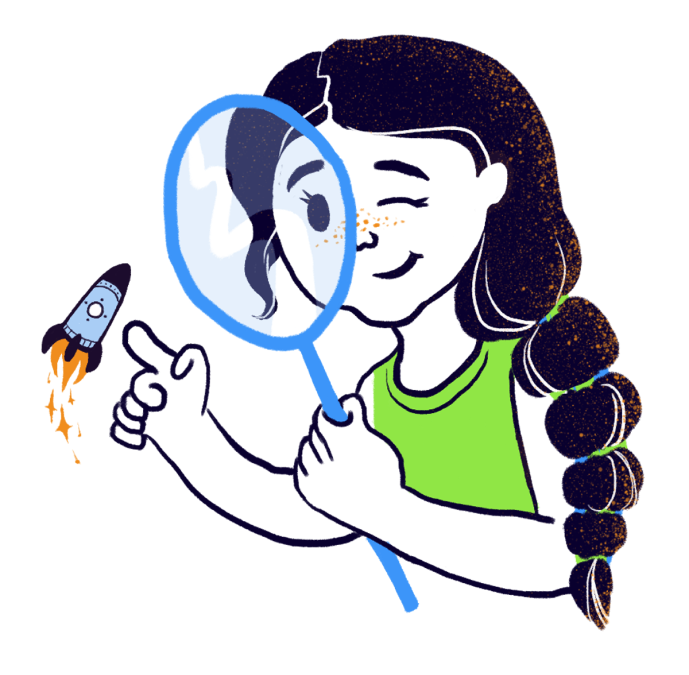
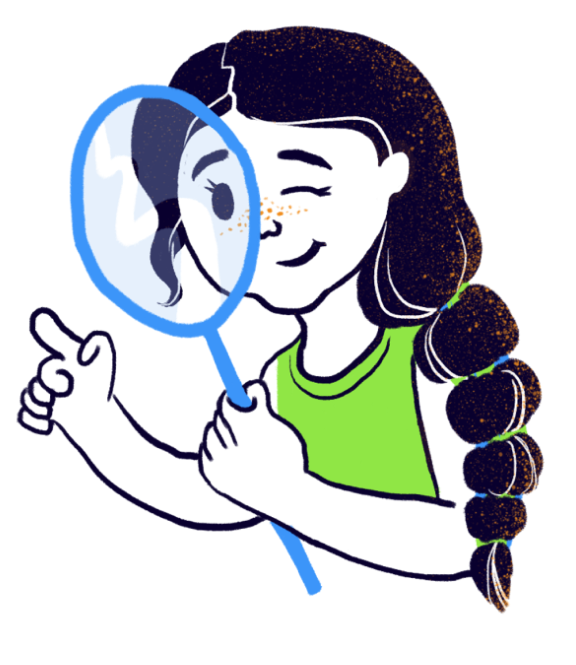
feat: add animation rocket

Changed region(s): [[0.0312, 0.0301, 0.9688, 0.9323], [0.1562, 0.6917, 0.1875, 0.7218]]

diff --git a/src/components/CareersForm/CareersForm.styled.ts b/src/components/CareersForm/CareersForm.styled.ts
@@ -1,5 +1,5 @@
 import themes from "./../../utils/themes";
-import styled from "styled-components";
+import styled, { keyframes, css } from "styled-components";
 
 export const FormTitle = styled.h1`
   font-size: ${themes.primary.font.size.quaternary};
@@ -21,7 +21,6 @@ export const FormImage = styled.div`
   width: 43.063rem;
   height: 42.188rem;
   background-repeat: space;
-  margin-left: 6.125rem;
 
   @media ${themes.primary.media.maxLaptop} {
     margin-left: 4.125rem;
@@ -31,18 +30,95 @@ export const FormImage = styled.div`
     width: 28.125rem;
     height: 29rem;
     background-repeat: round;
-    margin-left: 4.125rem;
   }
 
   @media ${themes.primary.media.maxTabletPortrait} {
-    margin-left: 1.125rem;
   }
 
   @media ${themes.primary.media.minTablet} {
-    margin-left: 0;
   }
   @media ${themes.primary.media.maxLowScreenMobile} {
     width: 22.625rem;
     height: 23.313rem;
+  }
+`;
+
+const rocket = keyframes`
+  ${css`
+    12% {
+      transform: translateX(1rem);
+    }
+    25% {
+      transform: translateY(-0.5rem);
+    }
+    37% {
+      transform: translateX(-1rem);
+    }
+    50% {
+      transform: translateY(-0.5rem);
+    }
+    62% {
+      transform: translateX(1rem);
+    }
+    75% {
+      transform: translateY(0.5rem);
+    }
+    87% {
+      transform: translateX(-1rem);
+    }
+    100% {
+      transform: translateY(0);
+    }
+  `}
+`;
+
+export const FormRocketImage = styled.div`
+  display: flex;
+  position: relative;
+  top: 19rem;
+  left: -10rem;
+  width: 5.5rem;
+  height: 11rem;
+  background-size: 5.5rem auto;
+  background-image: url("/rocketWithFlame.png");
+  background-repeat: no-repeat;
+
+  animation: ${rocket} 40s linear;
+  animation-iteration-count: infinite;
+
+  @media (min-width: 476px) and (max-width: 767px) {
+    top: 22.5rem;
+    left: -13rem;
+    width: 6.5rem;
+    height: 13rem;
+    background-size: 6.5rem auto;
+  }
+
+  @media ${themes.primary.media.onlyTabletPortrait} {
+    top: 10.5rem;
+    left: 6rem;
+    width: 10rem;
+    height: 20rem;
+    background-size: 6rem auto;
+  }
+
+  @media ${themes.primary.media.onlyTabletLandScape} {
+    top: 10.5rem;
+    left: 7rem;
+    width: 10rem;
+    height: 20rem;
+    background-size: 6rem auto;
+  }
+
+  @media ${themes.primary.media.minLaptop} {
+    top: 15rem;
+    left: 6.5rem;
+    width: 10rem;
+    height: 20rem;
+    background-size: 9rem auto;
+  }
+
+  @media ${themes.primary.media.minPC} {
+    left: 4rem;
   }
 `;

diff --git a/src/components/HowWeWorkList/HowWeWorkList.tsx b/src/components/HowWeWorkList/HowWeWorkList.tsx
@@ -12,11 +12,12 @@ SwiperCore.use([Mousewheel, Pagination]);
 const HowWeWorkList = ({ items }: { items: IHowWeWorkCardProps[] }) => {
   return (
     <Swiper spaceBetween={10} mousewheel={{ releaseOnEdges: true }}>
-      {[...items].map((item, idx) => (
-        <SwiperSlide key={idx}>
-          <HowWeWorkCard key={idx.toString()} {...item} />
-        </SwiperSlide>
-      ))}
+      {items &&
+        [...items].map((item, idx) => (
+          <SwiperSlide key={idx}>
+            <HowWeWorkCard key={idx.toString()} {...item} />
+          </SwiperSlide>
+        ))}
     </Swiper>
   );
 };

diff --git a/src/utils/themes.ts b/src/utils/themes.ts
@@ -81,9 +81,9 @@ const themes = {
       maxTabletPortrait: "(max-width: 992px)",
       maxTabletLandScape: "(max-width: 1200px)",
       maxLaptop: "(max-width: 1500px)",
-      onlyTabletPortrait: "(min-width: 768px) and (max-width: 992px)",
+      onlyTabletPortrait: "(min-width: 768px) and (max-width: 991px)",
       onlyTabletLandScape: "(min-width: 992px) and (max-width: 1199px)",
-      onlyLaptop: "(min-width: 1199px) and (max-width: 1500px)",
+      onlyLaptop: "(min-width: 1200px) and (max-width: 1500px)",
     },
   },
 };

diff --git a/src/components/CareersForm/index.tsx b/src/components/CareersForm/index.tsx
@@ -12,6 +12,7 @@ const CareersForm: FC = () => {
       </Styled.FormTitle>
       <Styled.FormWrapper>
         <Form />
+        <Styled.FormRocketImage />
         <Styled.FormImage />
       </Styled.FormWrapper>
     </>
